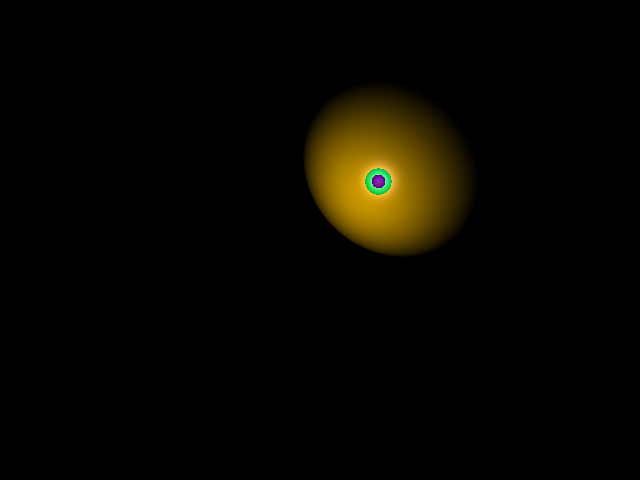
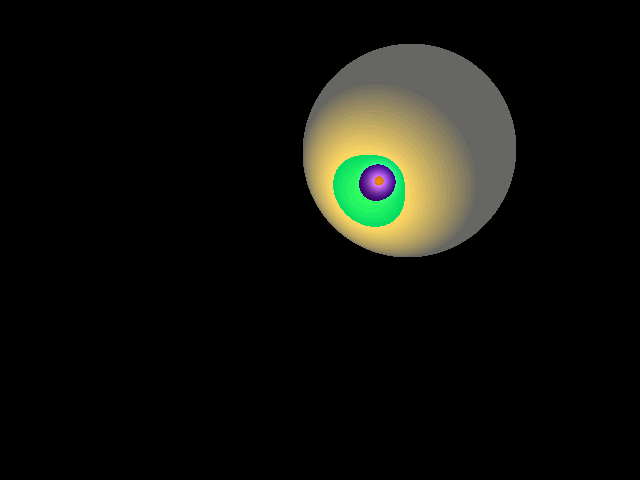
Ambient light added

Changed region(s): [[0.4688, 0.0938, 0.8125, 0.5625]]

diff --git a/ray_tracer.rb b/ray_tracer.rb
@@ -124,7 +124,13 @@ class RayTracer < Renderer
 
       #color =  @obj_int.material.diffuse #2D
       #color = lambert #shade lambert
-      color = lambert.add_color(blinn_phong) #3D Phong
+      #color = lambert.add_color(blinn_phong) #3D Phong
+      
+      #Ambient values
+      ka = @obj_int.material.diffuse
+      @ambient_light = Rgb.new(0.15,0.15,0.15)
+
+      color = lambert.add_color(blinn_phong).add_color(@ambient_light.multiply_color(ka))
     end
 
     return {red: color.red, green: color.green, blue: color.blue}
